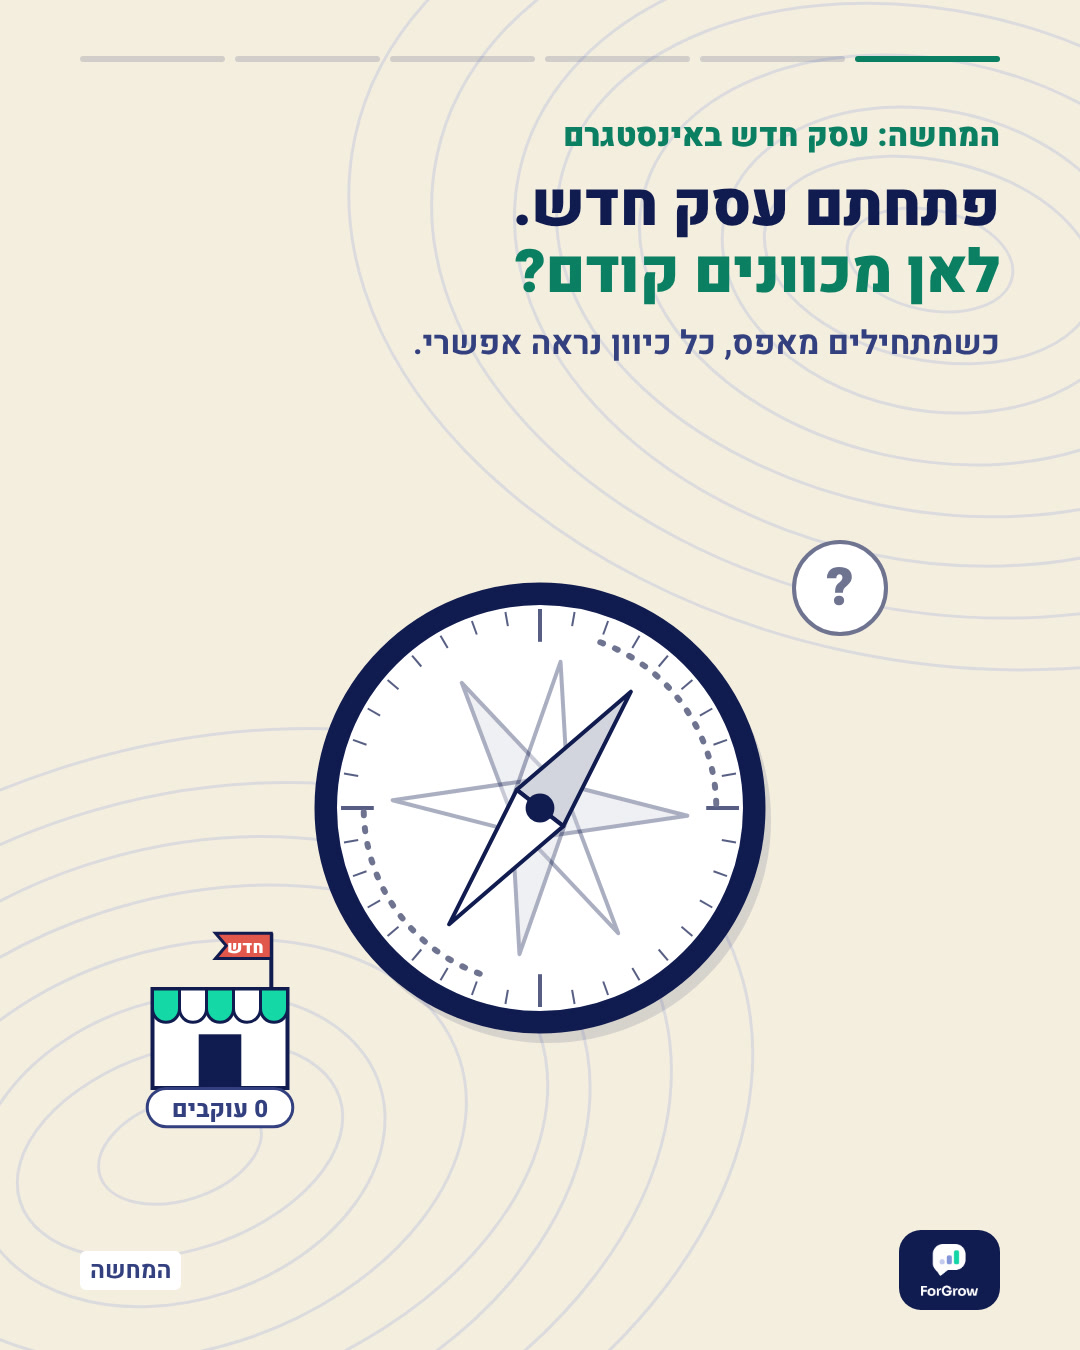
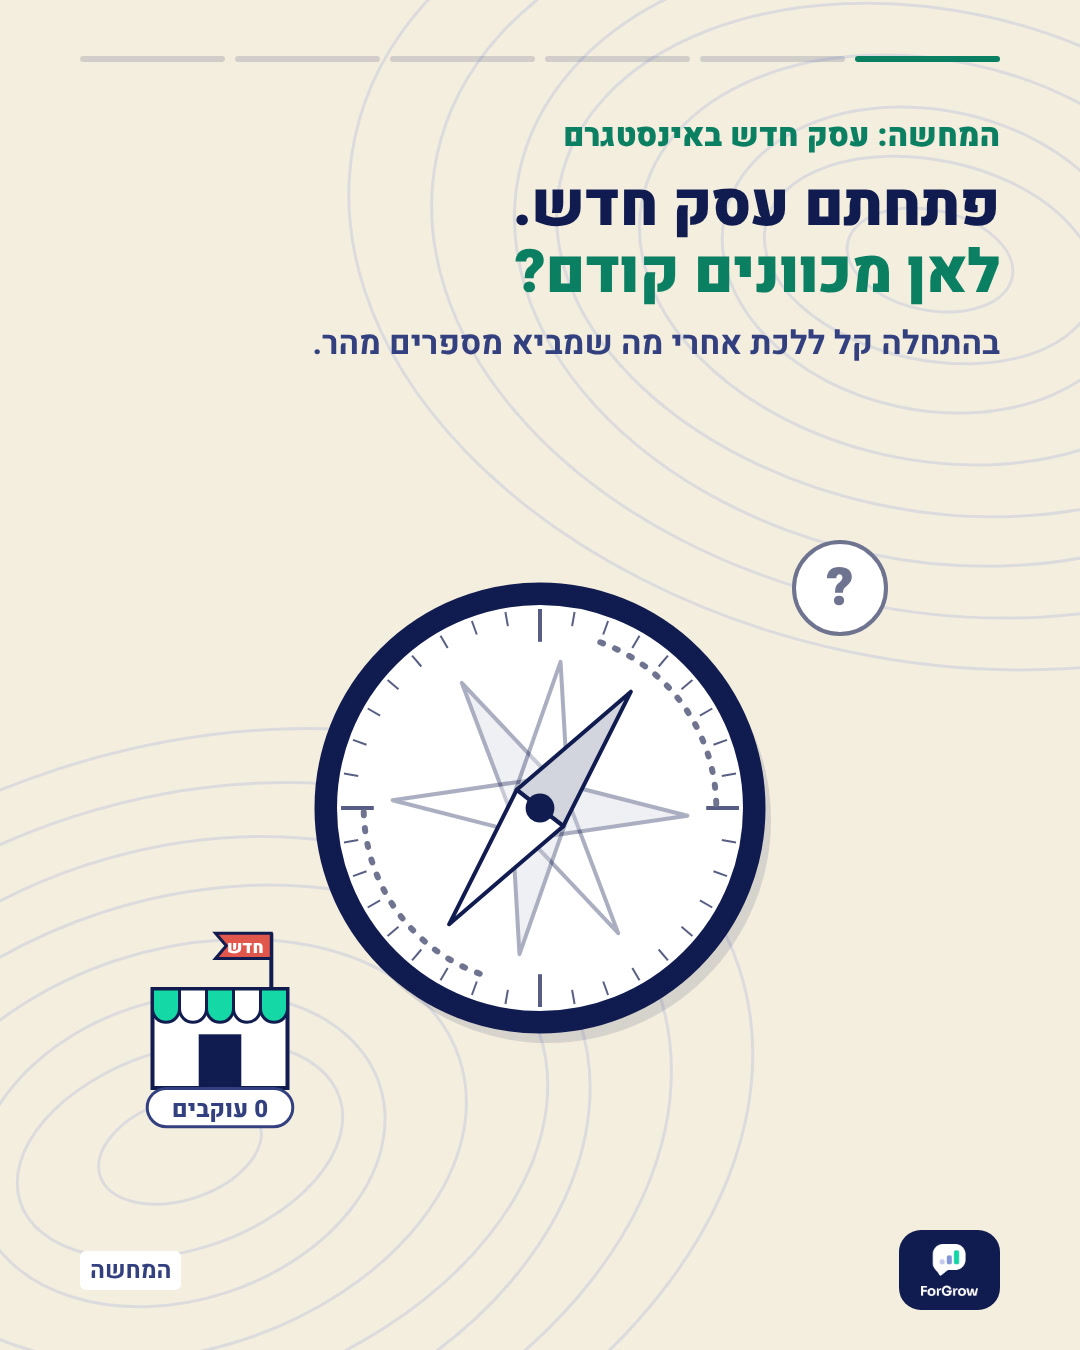
ad35 compass: reframe slide 2 around chasing quick numbers, fix clipped tag
Claude-Session: https://claude.ai/code/session_01YHJ5sv2ehUb5LZwgkDuxVA

Changed region(s): [[0.3056, 0.2489, 0.9167, 0.28]]

diff --git a/pipeline/ads_extra28.py b/pipeline/ads_extra28.py
@@ -1,8 +1,8 @@
 """Extra ad layouts, set 28 (added 2026-11-22).
 
 ad_compass — carousel on a parchment map background with faint topographic contour lines: a hiking compass.
-          Business problem: a new business starts on Instagram from zero and tries to reach everyone at once —
-          trends, friends, anyone scrolling — so the needle keeps spinning and there is no clear direction.
+          Business problem: a new business starts on Instagram from zero and chases whatever brings quick numbers —
+          a trend, a giveaway, friends of friends — so the needle keeps spinning and there is no clear direction.
           A relevant audience gives one direction, from which a route can start
           (discover -> follow -> keep seeing -> understand the offer -> maybe reach out).
           Route shown as five numbered map pins. Illustration only. Original logo on a navy tile.
@@ -141,8 +141,8 @@ def scene(sc, w=940):
     if k == "many":
         g = f"<svg width='{w}' height='620' viewBox='0 0 {w} 620'>"
         cx, cy = 470, 320
-        targets = ((470, 50, "כולם"), (790, 140, "טרנדים"), (840, 410, "מי שגולל"),
-                   (640, 585, "חברים"), (290, 585, "מכל מקום"), (110, 410, "סתם סקרנים"), (150, 140, "כל מי שיראה"))
+        targets = ((470, 50, "טרנד"), (790, 140, "הגרלה"), (840, 410, "מכרים"),
+                   (640, 585, "משפחה"), (290, 585, "מכל מקום"), (110, 410, "סתם סקרנים"), (150, 140, "מה שמביא מספרים"))
         for tx, ty, txt in targets:
             a = math.atan2(ty - cy, tx - cx)
             g += arrow(cx + math.cos(a) * 160, cy + math.sin(a) * 160, tx - math.cos(a) * 70, ty - math.sin(a) * 52)
